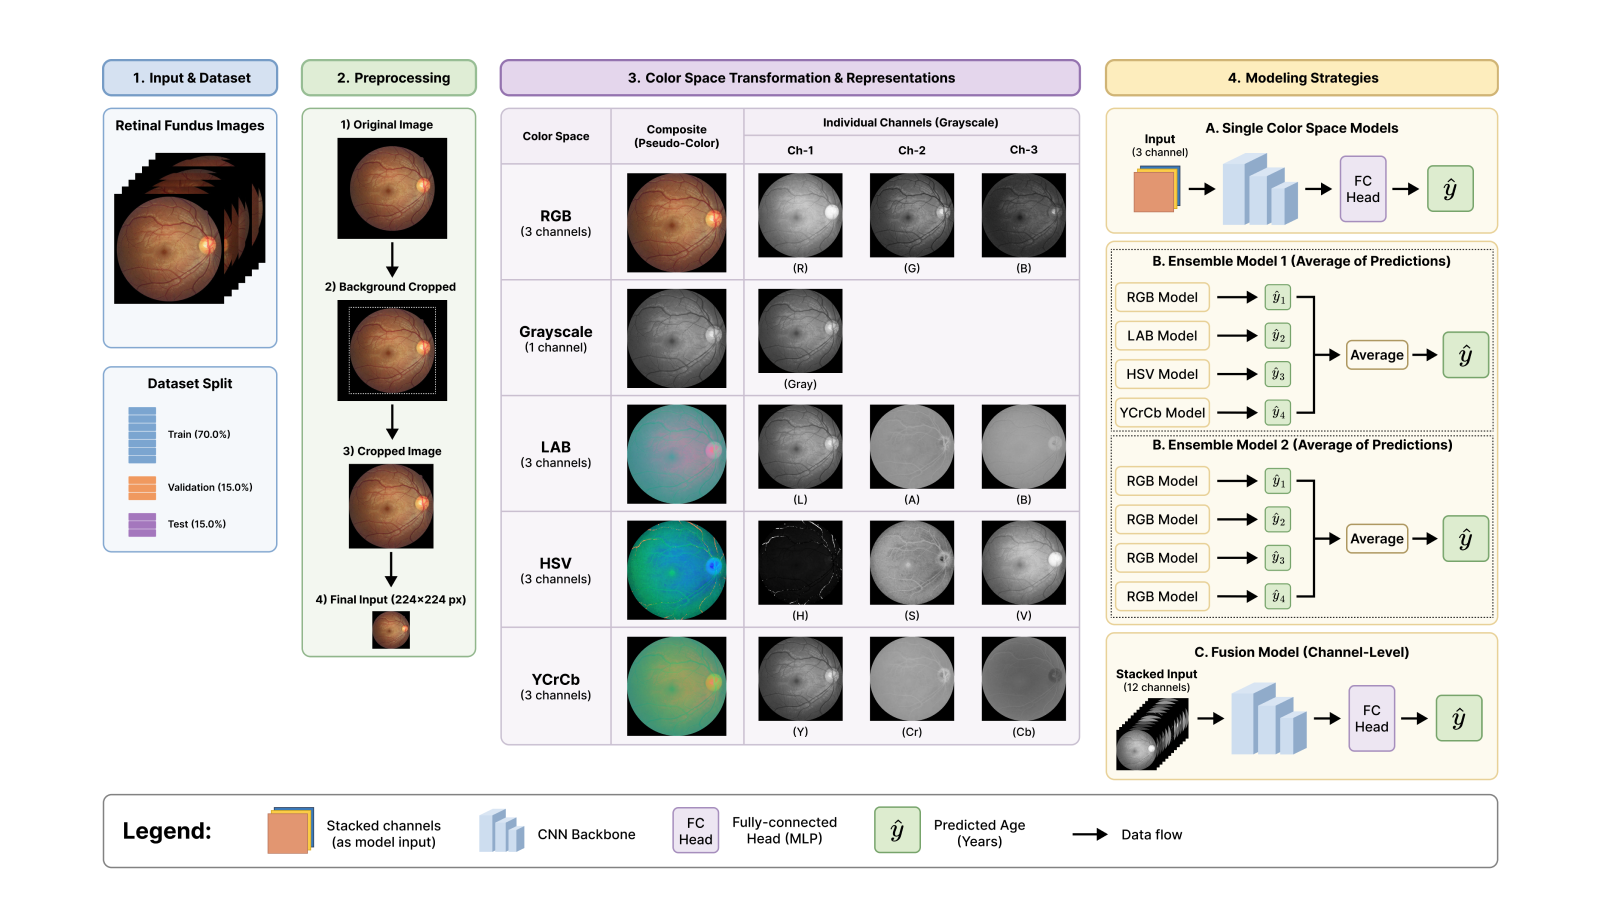
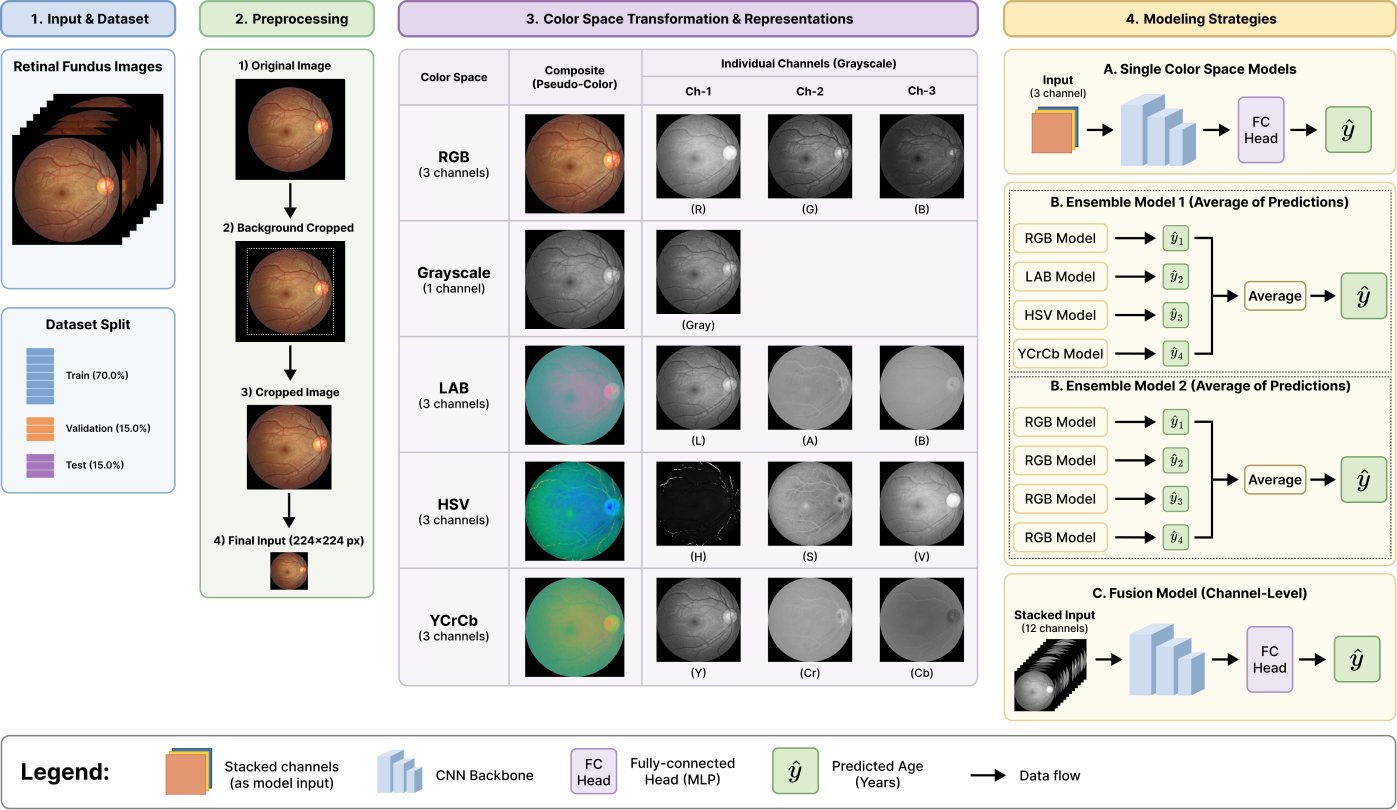
Trim publication image canvases

diff --git a/_includes/publication-entry.html b/_includes/publication-entry.html
@@ -1,7 +1,7 @@
 {% assign publication = include.publication %}
 <article class="publication-record" id="publication-{{ publication.index }}">
   <div class="publication-visual">
-    <img src="{{ publication.image | relative_url }}" alt="{{ publication.image_alt | escape }}" width="1600" height="900" loading="lazy">
+    <img src="{{ publication.image | relative_url }}" alt="{{ publication.image_alt | escape }}" width="{{ publication.image_width | default: 1600 }}" height="{{ publication.image_height | default: 900 }}" loading="lazy">
   </div>
   <div class="publication-body">
     {% if publication.website %}
